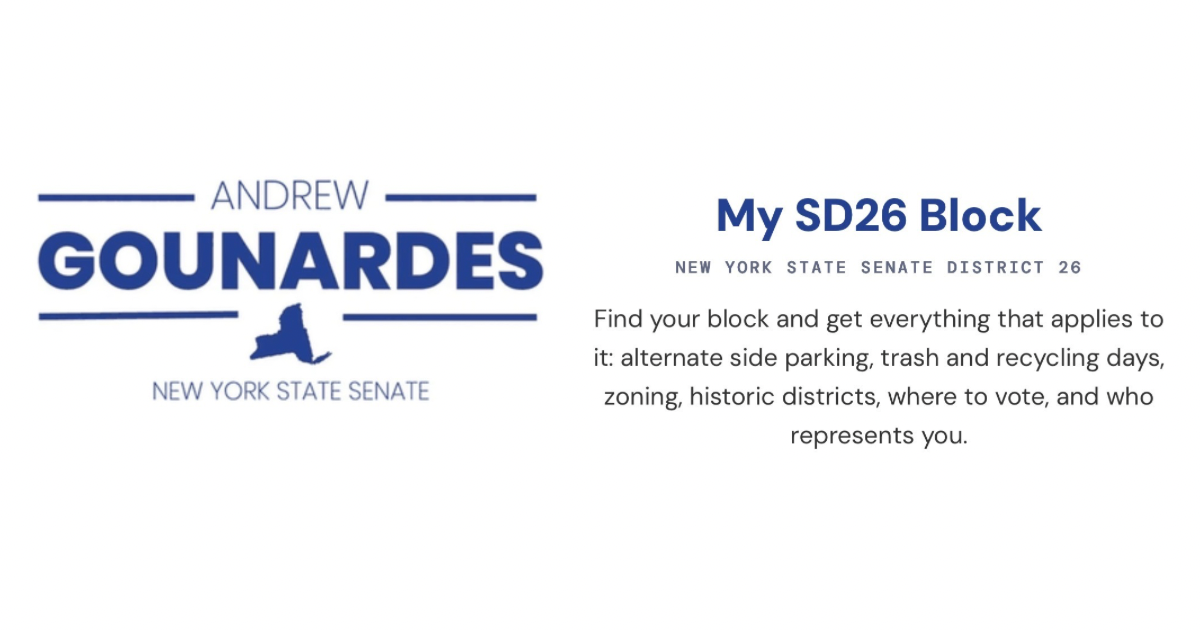
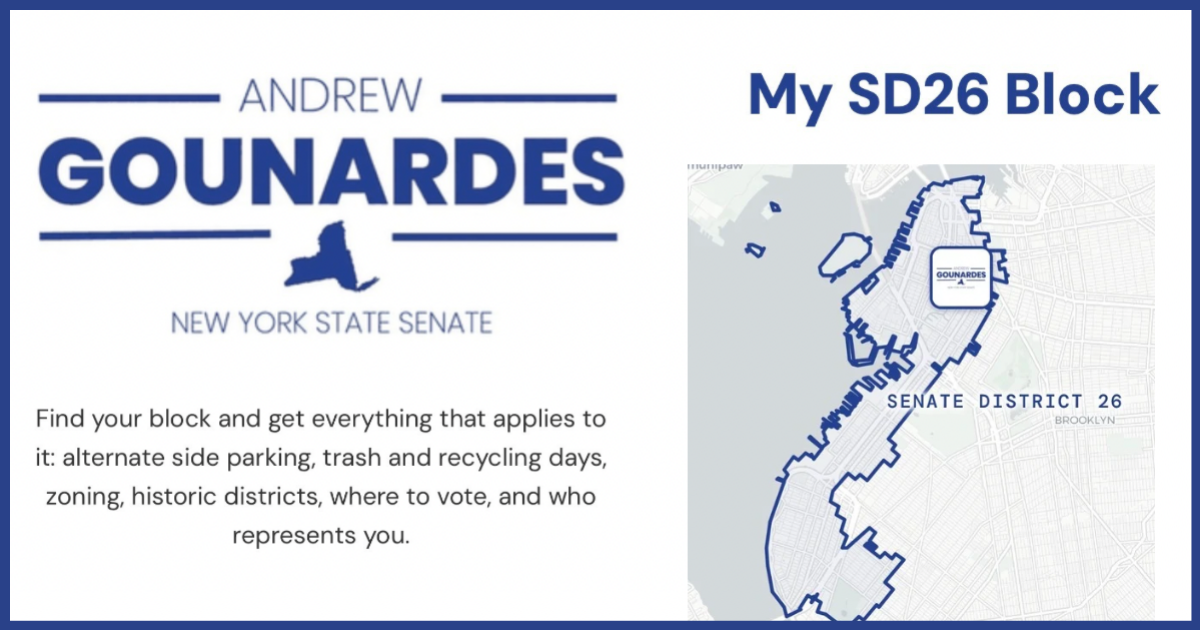
New OG card with district map design; sw v10

diff --git a/index.html b/index.html
@@ -10,7 +10,7 @@
 <meta property="og:title" content="My SD26 Block">
 <meta property="og:description" content="Find your block in State Senate District 26: alternate side parking, trash and recycling days, where to vote, and who represents you.">
 <meta property="og:url" content="https://sd26block.app/">
-<meta property="og:image" content="https://sd26block.app/sd26-og.png"><meta property="og:image:width" content="1200"><meta property="og:image:height" content="630">
+<meta property="og:image" content="https://sd26block.app/sd26-og.png?v=2"><meta property="og:image:width" content="1200"><meta property="og:image:height" content="630">
 <meta name="twitter:card" content="summary_large_image">
 <link rel="icon" href="/sd26-logo.png">
 <link rel="stylesheet" href="https://unpkg.com/leaflet@1.9.4/dist/leaflet.css">

diff --git a/sw.js b/sw.js
@@ -1,4 +1,4 @@
-const CACHE_VERSION='sd26-v9';
+const CACHE_VERSION='sd26-v10';
 const CORE=['/','/block/','/assets/cd-page.css','/assets/sd26-theme.css','/assets/blocks/block-card.css','/assets/blocks/block-render.js','/data/sd26-index.json','/sd26-logo.png'];
 self.addEventListener('install',e=>{e.waitUntil(caches.open(CACHE_VERSION).then(c=>c.addAll(CORE)).then(()=>self.skipWaiting()));});
 self.addEventListener('activate',e=>{e.waitUntil(caches.keys().then(ks=>Promise.all(ks.filter(k=>k!==CACHE_VERSION).map(k=>caches.delete(k)))).then(()=>self.clients.claim()));});
